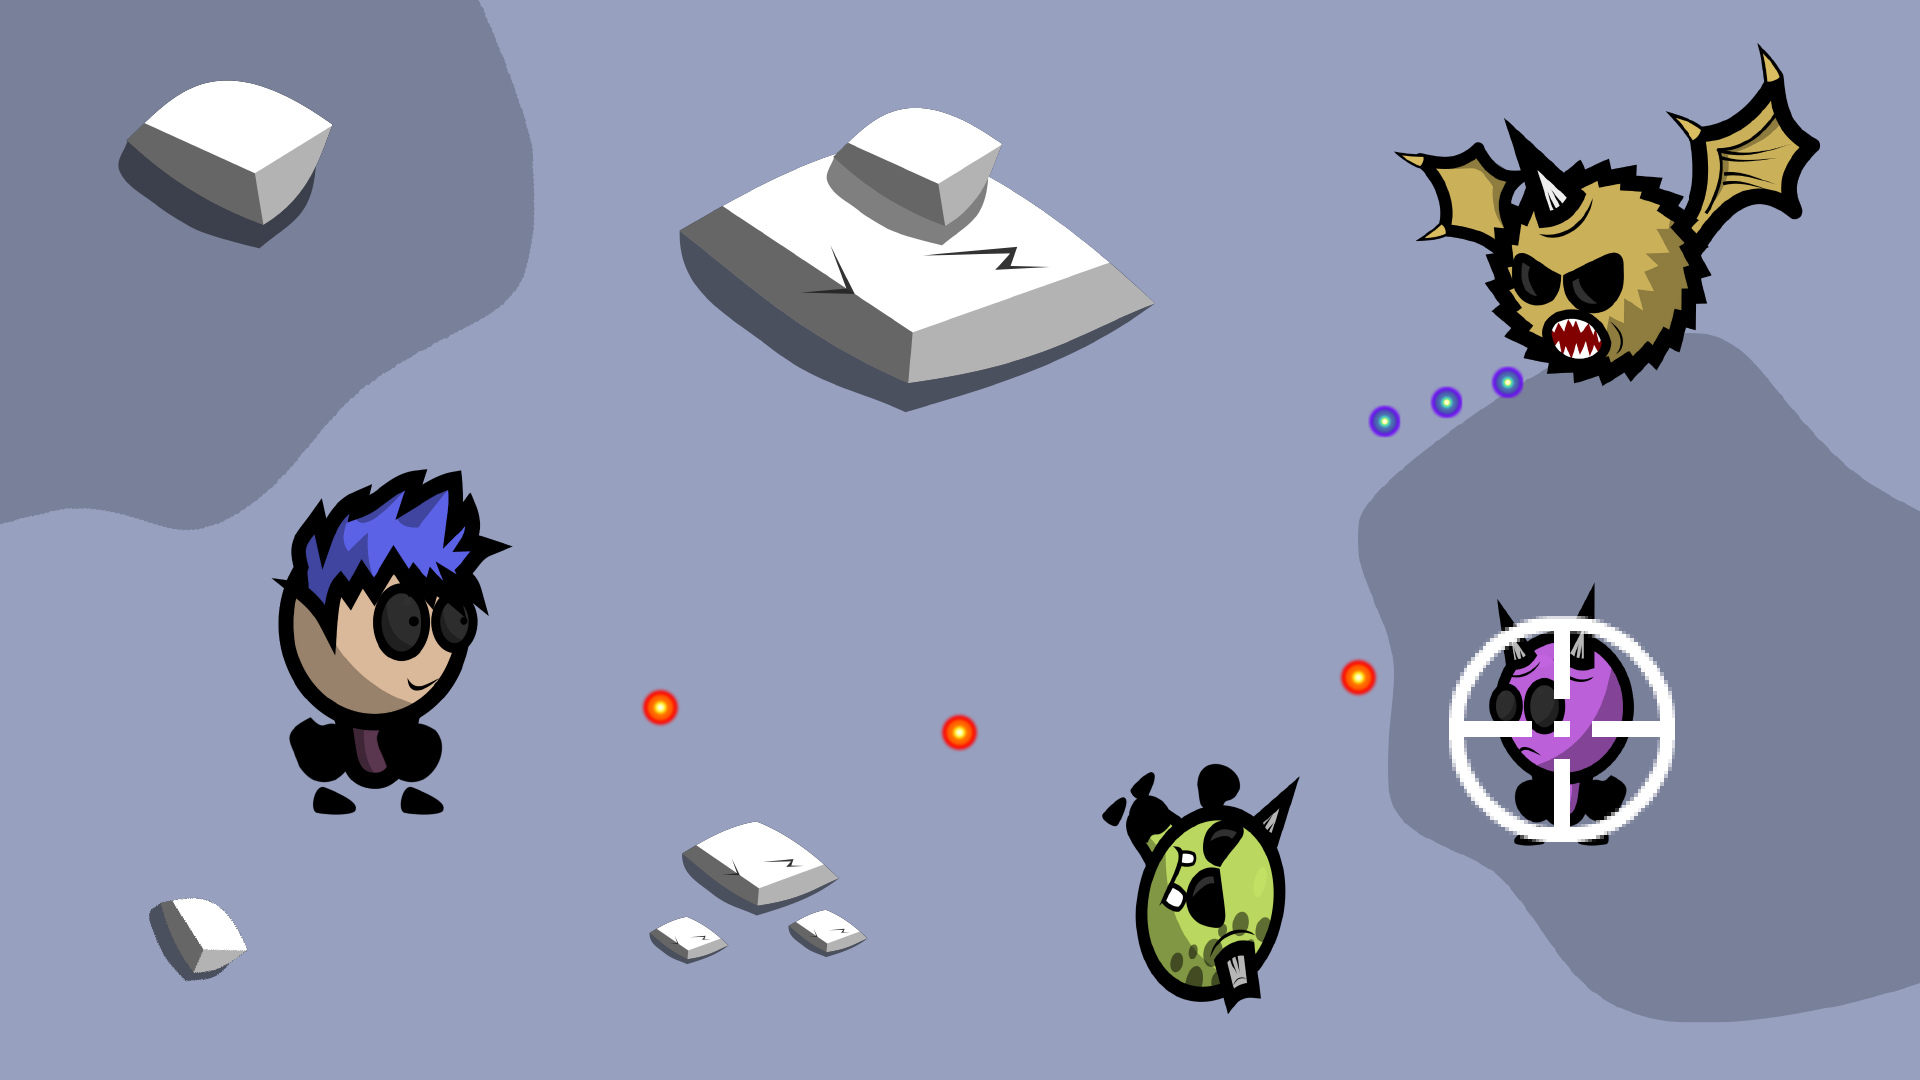
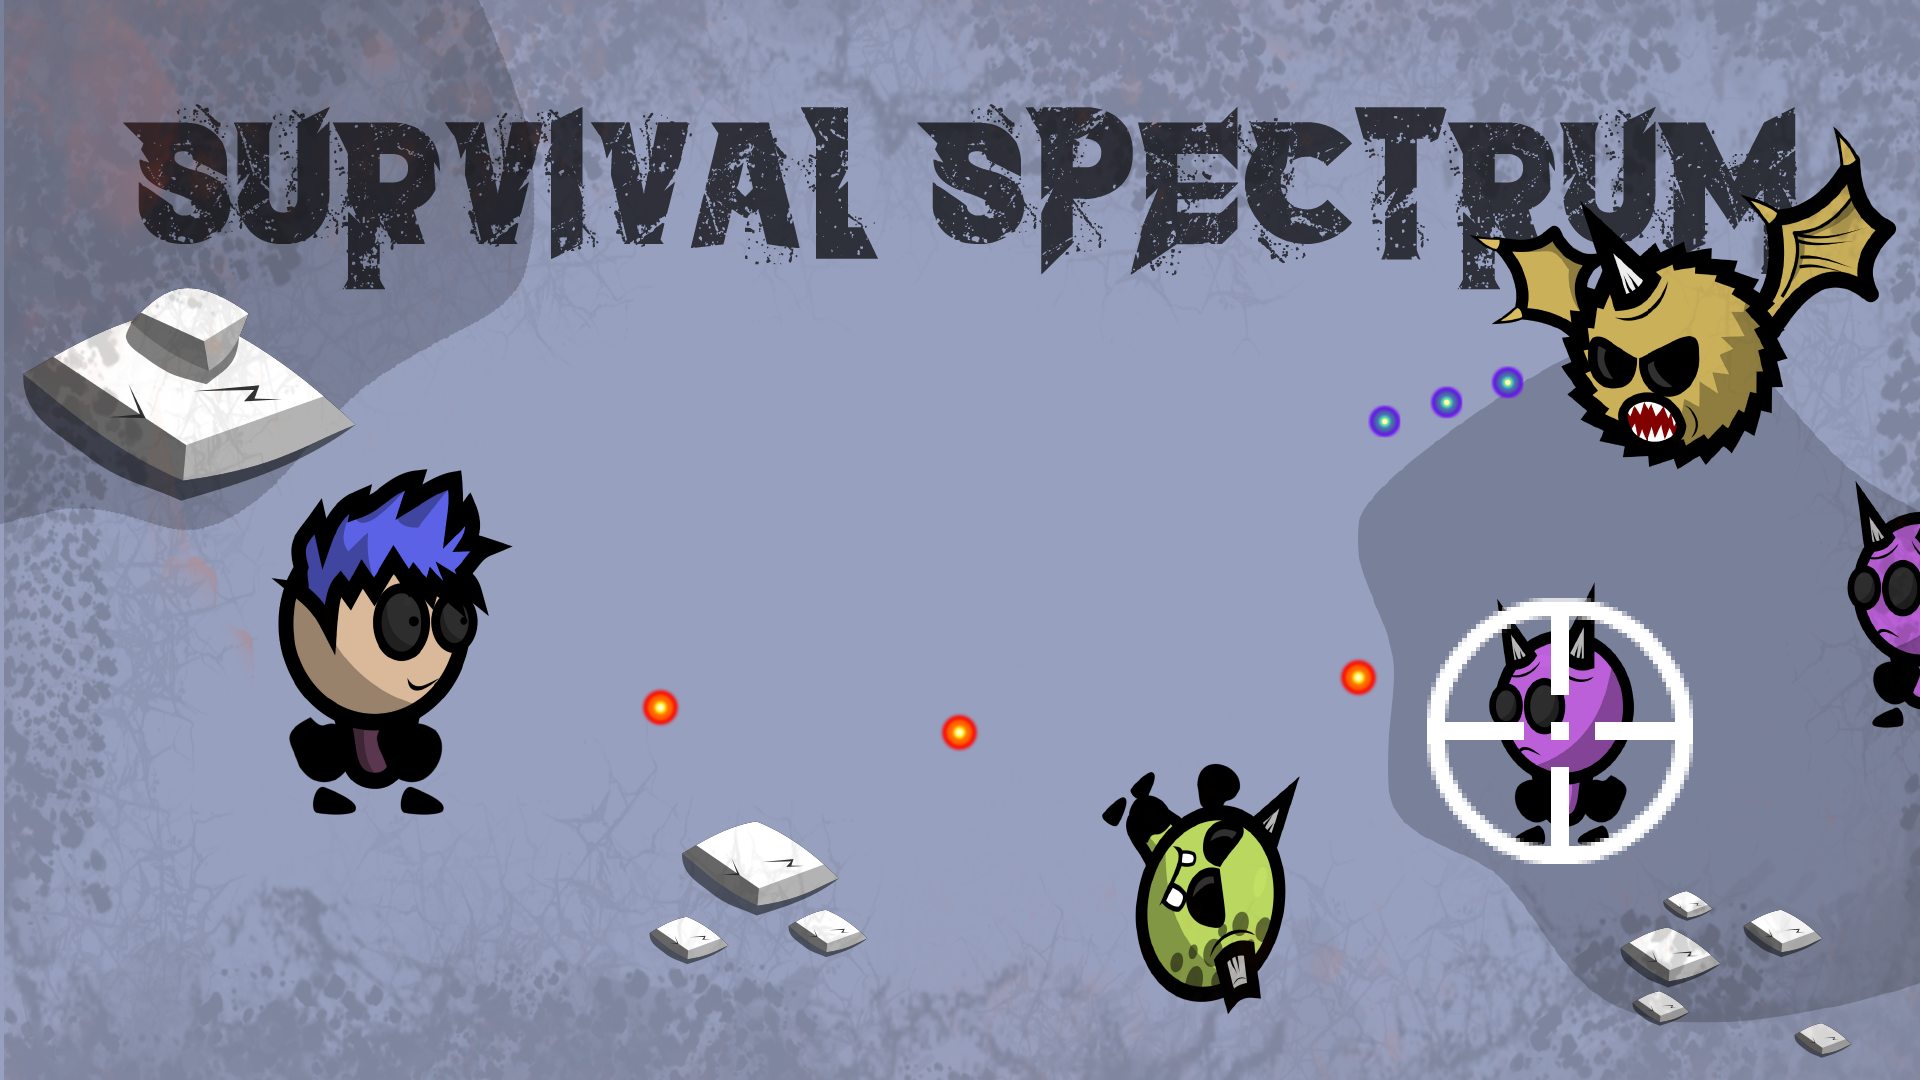
Mainmenu terminado

diff --git a/srcJuego/scripts/Scenes/StartMenu.js b/srcJuego/scripts/Scenes/StartMenu.js
@@ -18,12 +18,14 @@ export default class StartMenu extends Phaser.Scene {
     create() {
         this.title = this.add.text(this.cameras.main.centerX - 300, this.cameras.main.centerY / 3, 'Survival Spectrum', { font: '64px Arial', fill: '#FFFFFF' });
 
-        const start = new Button(this, this.cameras.main.centerX, this.cameras.main.centerY, 'startButton', 1, () => {
+        this.add.image(0,0, 'fondoMainMenu').setOrigin(0, 0);
+
+        const start = new Button(this, this.cameras.main.centerX, this.cameras.main.centerY, 'startMainMenu', 1, () => {
             this.scene.launch('level');
             this.scene.sleep('StartMenu');
         })
 
-        const fullScreenButton = this.add.image(960, 900, 'fullscreen', 0).setOrigin(0.5, 0.5).setInteractive();
+        const fullScreenButton = this.add.image(330, 980, 'fullscreen', 0).setOrigin(0.5, 0.5).setInteractive();
         if (this.scale.isFullscreen) { fullScreenButton.setFrame(1); }
         else { fullScreenButton.setFrame(0); }
 

diff --git a/srcJuego/scripts/Scenes/BootScene.js b/srcJuego/scripts/Scenes/BootScene.js
@@ -68,9 +68,11 @@ export default class BootScene extends Phaser.Scene{
         this.load.image('bloodEffect', 'srcJuego/ui/BloodEffect2.png')
         this.load.image('confirm', 'srcJuego/ui/ConfirmButton.png');
         this.load.image('cardBG', 'srcJuego/ui/CartaBG.png');
+        this.load.image('fondoMainMenu', 'srcJuego/ui/FondoMainMenu.png');
+        this.load.image('startMainMenu', 'srcJuego/ui/StartMainMenu.png');
         this.load.image('cabeceraDicos', 'srcJuego/ui/CabeceraDicos.png');
         this.load.spritesheet('fullscreenMenu', 'srcJuego/ui/EnableDisableFullScreenButton.png', { frameWidth: 330, frameHeight: 118 });
-        this.load.spritesheet('fullscreen', 'srcJuego/ui/fullscreen.png', { frameWidth: 362, frameHeight: 84 });
+        this.load.spritesheet('fullscreen', 'srcJuego/ui/fullscreen.png', { frameWidth: 494, frameHeight: 63 });
         this.load.image('tryAgainButton', 'srcJuego/img/try_again.png')
 
         let srcJuego = 'srcJuego';
